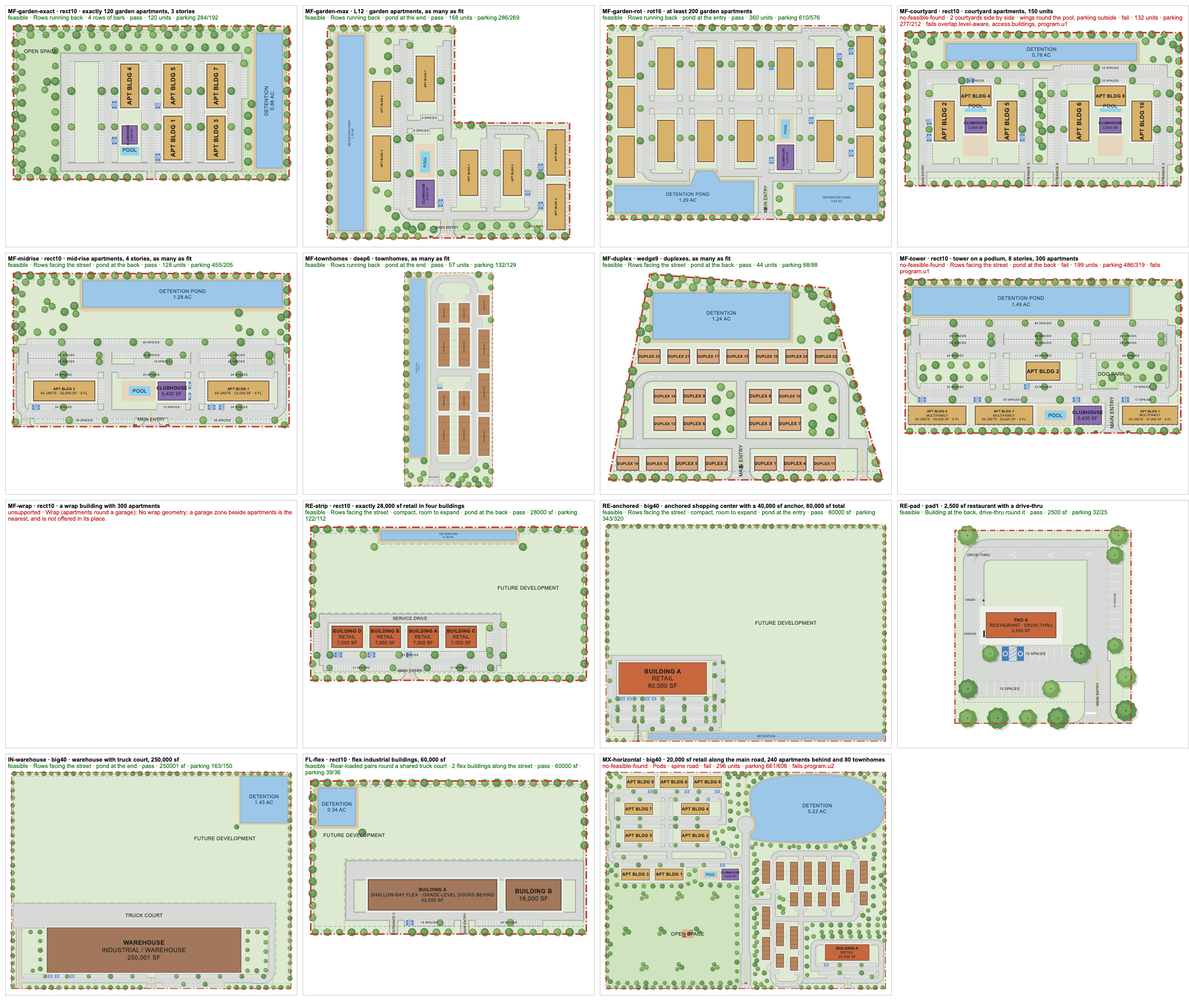
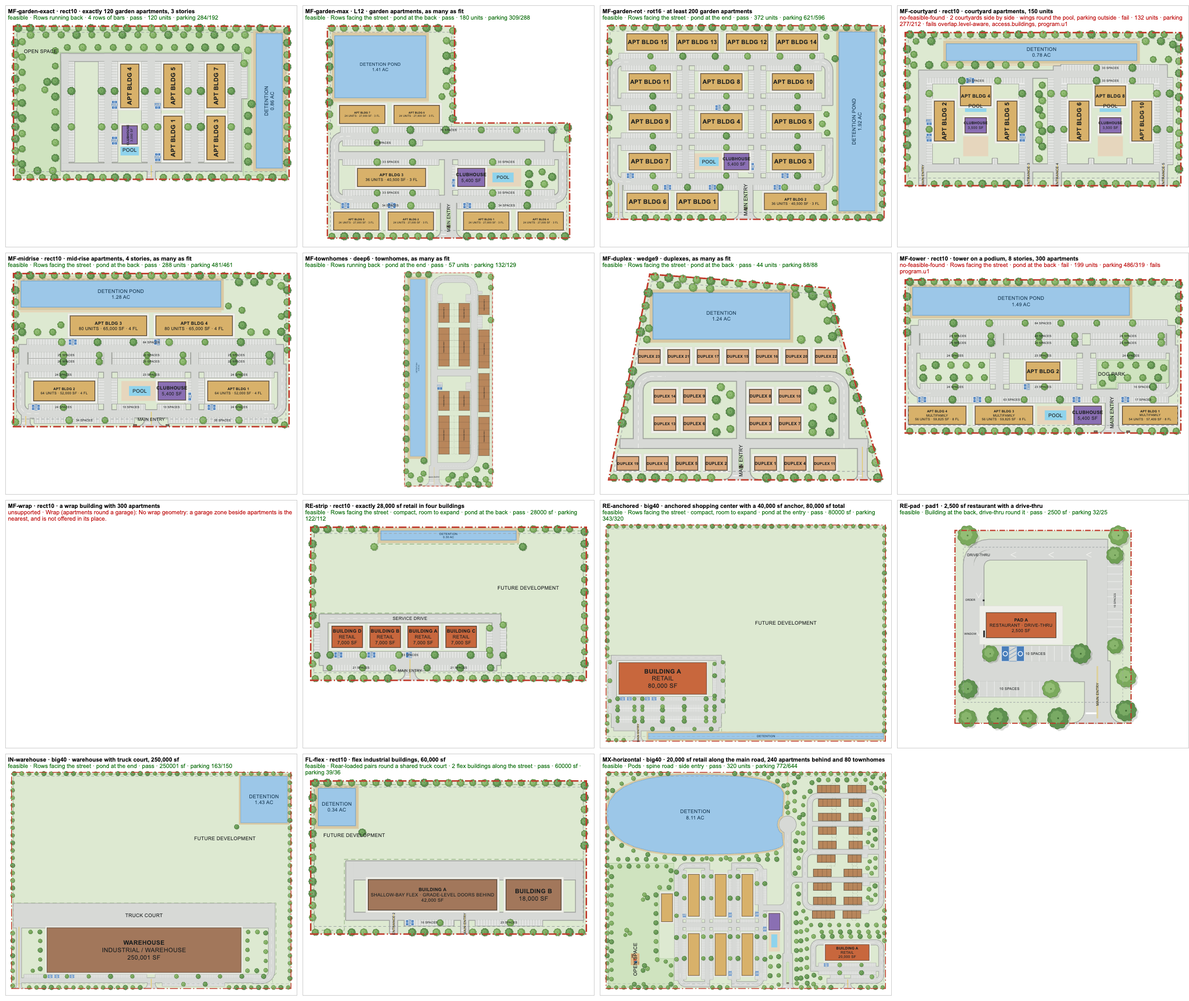
Build lays out through the run engine; studio buildings; no apartment stubs
- src/siteplan.js + src/sp-worker.js: Build, its re-solve and the AI's revised program call
  runPlan (lib/layoutrun.mjs) in the worker: a saved, seeded run with templates and the
  independent check on every option; falls back to the plain engine
- lib/sitelayout.mjs: params.minLen, the smallest whole apartment building; the generator
  draws fewer full-length bars instead of one-stair stubs (the Hockley plan's empty blocks)
- lib/layoutbrief.mjs: uses keep their zone and name; per-zone forms; templates for every
  apartment zone; same-use zones with no placement ordered front to back (stated)
- lib/bldgtemplates.mjs, lib/layoutcheck.mjs: templates and program checks per zone
- lib/siteplan.mjs: studio apartment buildings read from words as their own zone
- mf-garden-studio-3s template (estimate) from the reviewed garden stack
- Hockley (23737 FM 2920, 29 ac): 144 garden + 270 studio + 109 townhomes, all options pass
  (before: 348 apartments with ~4 ac empty, or 18 units from the words); Chrome worker and
  Node give identical geometry hashes. Benchmark 12/15 (was 11).

diff --git a/src/siteplan.js b/src/siteplan.js
@@ -31,6 +31,7 @@ import * as G from './lib/guardrails.mjs';
 import * as BR from './lib/planbrief.mjs';
 import * as LV from './lib/layoutcheck.mjs';
 import * as LB from './lib/layoutbrief.mjs';
+import { runPlan } from './lib/layoutrun.mjs';
 import * as STG from './lib/planstages.mjs';
 import * as PARC from './lib/siteparcels.mjs';
 import * as RF from './lib/sitefiles.mjs';
@@ -852,17 +853,24 @@ export function initSitePlan(ctx) {
   // kept with the plan's own working numbers (unapply); every other plan goes to the engine as it is
   function laid(fn, ...args) {
     if (fn === 'refit' && args[0]?.recipe?.parcels) args[1] = { ...(args[1] || {}), parcels: partsNow(P(), args[0]) }; // (laid out parcel by parcel: the parts again)
-    if (fn === 'options' && args[0]?.ring?.length >= 3 && !args[0].terrain) { const t = terrainNow(args[0]); if (t) args[0] = { ...args[0], terrain: t }; else terrainOf(args[0]); } // the pond goes on the low side (lib/sitelayout.mjs)
+    if ((fn === 'options' || fn === 'run') && args[0]?.ring?.length >= 3 && !args[0].terrain) { const t = terrainNow(args[0]); if (t) args[0] = { ...args[0], terrain: t }; else terrainOf(args[0]); } // the pond goes on the low side (lib/sitelayout.mjs)
     const g = fn === 'refit' ? G.forLayout(args[0], args[0]?.program, {}) : G.forLayout(args[0], args[1], args[2] || {});
     if (!g) return laid0(fn, ...args);
     const base = fn === 'refit' ? args[0] : { ...args[0], program: args[1] };
-    return laid0(fn, ...(fn === 'refit' ? [g.plan, args[1] || {}] : [g.plan, g.program, g.opts])).then(r => fn === 'refit' ? G.unapply(r, base) : (r || []).map(o => G.unapply(o, base)));
+    return laid0(fn, ...(fn === 'refit' ? [g.plan, args[1] || {}] : [g.plan, g.program, g.opts, ...args.slice(3)])).then(r => fn === 'refit' ? G.unapply(r, base) : fn === 'run' ? { ...r, options: (r?.options || []).map(o => G.unapply(o, base)) } : (r || []).map(o => G.unapply(o, base)));
   }
   function laid0(fn, ...args) {
     try { if (!worker) { worker = new Worker(new URL('./sp-worker.js', import.meta.url), { type: 'module' }); worker.onmessage = ({ data }) => { const w = wait.get(data.id); if (!w) return; wait.delete(data.id); data.ok ? w.ok(data.result) : w.no(new Error(data.error)); }; worker.onerror = e => { for (const w of wait.values()) w.no(new Error(e.message || 'layout worker failed')); wait.clear(); worker = null; }; } }
     catch (e) { worker = null; }
-    if (!worker) return new Promise((ok, no) => setTimeout(() => { try { ok(fn === 'refit' ? refit(...args) : fn === 'pods' ? relayPods(...args) : fn === 'net' ? netEdit(...args) : layoutOptions(...args)); } catch (e) { no(e); } }, 30));
+    if (!worker) return new Promise((ok, no) => setTimeout(() => { try { ok(fn === 'run' ? runPlan(...args) : fn === 'refit' ? refit(...args) : fn === 'pods' ? relayPods(...args) : fn === 'net' ? netEdit(...args) : layoutOptions(...args)); } catch (e) { no(e); } }, 30));
     const id = ++wseq; return new Promise((ok, no) => { wait.set(id, { ok, no }); worker.postMessage({ id, fn, args: JSON.parse(JSON.stringify(args)) }); });
+  }
+  // Build's layouts as runs (lib/layoutrun.mjs runPlan): the same engine inside a saved, replayable run (seeded, so the
+  // same request on the same site gives the same layouts), apartment buildings from the reviewed templates, each option
+  // with its independent check. The plain engine when the run can't be made.
+  async function laidRun(plan, prog, opts, ask) {
+    try { const r = await laid('run', plan, prog, opts, { ask }); if (r?.options?.length) return r.options; } catch (e) { console.warn('layout run', e); }
+    return laid('options', plan, prog, opts);
   }
   let lastKeep = null, keySig = '';
   function draw() {
@@ -2666,7 +2674,7 @@ export function initSitePlan(ctx) {
     const label = solveLabel, mark = o.force ? null : solveMark; solveLabel = ''; solveMark = null; ed.solveBar = false;
     const before = pl.elements.some(e => e.kind === 'building') ? GM(pl) : null, was = pl.variant ? { ...pl.variant } : null, hadAi = !!ed.variants?.some(v => v.ai);
     const run = startRun('resolve', ['Laying out new layouts with these settings'], o.src || '#spResolve'); if (!run) return;
-    let out = []; try { out = await laid('options', { ...pl, params: RUN.fillParams(pl.params, { ask: ed.runMeta?.ask || pl.lastRun?.ask || '' }) }, pl.program, { count: ed.variants?.length > 3 ? 12 : 3, deeper: true, ...koOpts(pl) }); } catch (e) { console.warn('layout', e); }
+    let out = []; try { out = await laidRun({ ...pl, params: RUN.fillParams(pl.params, { ask: ed.runMeta?.ask || pl.lastRun?.ask || '' }) }, pl.program, { count: ed.variants?.length > 3 ? 12 : 3, deeper: true, ...koOpts(pl) }, ed.runMeta?.ask || pl.lastRun?.ask || ''); } catch (e) { console.warn('layout', e); }
     if (!live(run) || PL() !== pl) return;
     const variants = named(out, { ...pl });
     if (!variants.some(v => v.elements.length)) { endRun(run); ctx.toast('Nothing fits with these settings.'); return; }
@@ -3485,7 +3493,7 @@ export function initSitePlan(ctx) {
     if (np.form) params0 = { ...(params0 || pl.params || {}), form: np.form }; // the shape the request names ("L-shaped"): the layout reads params.form
     runStep(run, 2 + o0, lay);
     const wb = BR.wordsBrief(ask); // pads asked for in words ("with 2 pad sites", "an outparcel"): the engine places them, at every level
-    let out = [], failed = false; try { out = await laid('options', { ...pl, setbacks, ...(params0 ? { params: params0 } : {}) }, prog, { ...L.layout, deeper: true, ...koOpts(pl), ...(wb ? { brief: wb } : {}), ...parcelOpts(p, pl, prog) }); /* (deeper: the same layouts again with a 6 and an 8 ft deep pond, each labelled with the depth it assumes) */ } catch (e) { console.warn('layout', e); failed = true; if (live(run)) ctx.toast('The layout failed: ' + e.message + '. Try a smaller request, or draw it by hand.'); }
+    let out = [], failed = false; try { out = await laidRun({ ...pl, setbacks, ...(params0 ? { params: params0 } : {}) }, prog, { ...L.layout, deeper: true, ...koOpts(pl), ...(wb ? { brief: wb } : {}), ...parcelOpts(p, pl, prog) }, ask); /* (deeper: the same layouts again with a 6 and an 8 ft deep pond, each labelled with the depth it assumes) */ } catch (e) { console.warn('layout', e); failed = true; if (live(run)) ctx.toast('The layout failed: ' + e.message + '. Try a smaller request, or draw it by hand.'); }
     if (!live(run) || PL() !== pl) return;
     const plan = { ...pl, setbacks, ...(params0 ? { params: params0 } : {}) };
     let variants = named(out, { ...plan, program: prog }, params0 ? { params: params0 } : {});
@@ -3535,7 +3543,7 @@ export function initSitePlan(ctx) {
         if (rv.revise && rv.program) {
           runStep(run, 4 + o0, (revised.length ? 'Revising again: ' : 'Revising: ') + (rv.why || 'a better program').replace(/\.$/, ''));
           const params2 = RUN.fillParams({ ...params1, ...(rv.params?.streets ? { streets: rv.params.streets } : {}), ...(rv.params?.form ? { form: rv.params.form } : {}) }, { ask }), prog2 = { ...rv.program, ...(rv.params?.storm ? { storm: rv.params.storm } : {}) }; // (its "fill" never holds land the words didn't ask to hold)
-          let out2 = []; try { out2 = await laid('options', { ...pl, setbacks, params: params2 }, prog2, { ...(L.revise || { count: 3, depth: 6, budgetMs: 6000 }), ...koOpts(pl), ...(wb ? { brief: wb } : {}) }); } catch (e) { console.warn('layout', e); }
+          let out2 = []; try { out2 = await laidRun({ ...pl, setbacks, params: params2 }, prog2, { ...(L.revise || { count: 3, depth: 6, budgetMs: 6000 }), ...koOpts(pl), ...(wb ? { brief: wb } : {}) }, ask); } catch (e) { console.warn('layout', e); }
           if (!live(run)) return;
           const v2 = named(out2, { ...plan, params: params2, program: prog2 }, { params: params2, revisedBy: rv.why || 'the AI review' }).filter(v => v.elements.length);
           if (v2.length) { add = v2.slice(0, 3); progR = prog2; params1 = params2; revised.push(first.why || 'a better program'); }

diff --git a/src/sw.js b/src/sw.js
@@ -3,7 +3,7 @@
 const VERSION = '__BUILD__', SHELL = 'fs-shell-' + VERSION, DATA = 'fs-data', LIBS = 'fs-libs';
 const FILES = ['./', 'index.html', 'app.css', 'workspace.css', 'app.js', 'workspace.js', 'assistant.js', 'live.js', 'team.js', 'timeline.js', 'views.js', 'market.js', 'saved.js', 'building.js', 'mobile.js', 'nav.js', 'settings.js', 'field.js', 'siteplan.js', 'sitefiles.js', 'teamlib.js', 'rulesheets.js', 'sp-worker.js',
   'mapsearch.js', 'nearby.js', 'sources.js', 'sitereports.js', 'planes.js', 'flightpath3d.js', 'planes3d.js', 'quicklayers.js', 'layerfilters.js', 'cardtabs.js', 'area.js', 'regrid.js', 'site.js', 'utilities.js', 'glance.js', 'crime.js', 'crimeus.js', 'fema.js', 'places.js', 'devlayers.js', 'env.js', 'owner.js', 'google.js', 'reportkit.js', 'markets.js', 'drivetime.js', 'traffic.js', 'airports.js', 'airreport.js', 'compare.js', 'kpis.js', 'export.js', 'metrics.js', 'charts.js', 'chatcards.js', 'mkcharts.js', 'motion.js', 'cursors.js', 'reports.js',
-  '__FEASIBILITY__', 'lib/filter.mjs', 'lib/siteplan.mjs', 'lib/sitecompose.mjs', 'lib/sitelayout.mjs', 'lib/sitefoodtruck.mjs', 'lib/sitefuel.mjs', 'lib/sitestem.mjs', 'lib/sitecommunity.mjs', 'lib/siteparking.mjs', 'lib/sitepad.mjs', 'lib/sitecorner.mjs', 'lib/sitepods.mjs', 'lib/streetnet.mjs', 'lib/rulesheet.mjs', 'lib/streetedit.mjs', 'lib/streetnames.mjs', 'lib/customtypes.mjs', 'lib/buildings.mjs', 'lib/siteedit.mjs', 'lib/planview.mjs', 'lib/planstages.mjs', 'lib/planruns.mjs', 'lib/planask.mjs', 'lib/planbrief.mjs', 'lib/sitefiles.mjs', 'lib/project.mjs', 'lib/render.mjs', 'lib/titleblock.mjs', 'lib/planset.mjs', 'lib/plandesign.mjs', 'lib/massing.mjs', 'lib/bimplan.mjs', 'lib/bim.mjs', 'lib/sheetkit.mjs', 'lib/terrain.mjs', 'lib/sheets/site.mjs', 'lib/sheets/arch.mjs', 'lib/sheets/eng.mjs', 'lib/sheets/fuel.mjs', 'lib/reports/fema.mjs', 'lib/reports/crime.mjs', 'lib/reports/crimeus.mjs', 'lib/reports/env.mjs', 'lib/reports/geojson.mjs', 'lib/reports/plain.mjs', 'lib/reports/courses.mjs', 'lib/aimodels.mjs', 'lib/aiprices.mjs', 'lib/planpick.mjs', 'lib/planmap.mjs', 'lib/sitetools.mjs', 'lib/stalls.mjs', 'lib/proforma.mjs', 'lib/guardrails.mjs', 'lib/sitesheet.mjs', 'lib/utilities.mjs', 'lib/taxonomy.mjs', 'lib/changes.mjs', 'lib/agent-tools.mjs', 'lib/rulebook.mjs', 'lib/assist-logic.mjs', 'lib/nasa.mjs', 'lib/height.mjs', 'lib/sectors.mjs', 'lib/nearby.mjs', 'lib/reports.mjs', 'lib/demographics.mjs', 'lib/marketcalc.mjs', 'lib/marketstats.mjs', 'lib/spending.mjs', 'lib/nibrs.mjs', 'lib/voice-state.mjs', 'lib/aircraft-shapes.mjs', 'lib/aircraft-meshes.mjs', 'lib/flightpath.mjs', 'lib/geomatch.mjs', 'lib/screen.mjs', 'lib/markets.mjs', 'lib/correlate.mjs', 'lib/footprint.mjs', 'lib/cardclick.mjs', 'lib/places.mjs', 'lib/env.mjs', 'lib/layeruse.mjs', 'lib/http.mjs', 'lib/urlstate.mjs', 'lib/maptiler.mjs', 'lib/vendor/polyclip.mjs', 'logo.png', 'icon-192.png', 'manifest.webmanifest', 'lib/sitetract.mjs', 'lib/sitecenter.mjs', 'lib/sitegen.mjs', 'lib/sitegencom.mjs', 'lib/siteparcels.mjs', 'lib/projectstore.mjs', 'lib/enginectx.mjs', 'lib/sha256.mjs', 'lib/layoutbrief.mjs', 'lib/layoutcheck.mjs', 'lib/layoutcaps.mjs', 'lib/bldgtemplates.mjs', 'lib/reftemplates.mjs'];
+  '__FEASIBILITY__', 'lib/filter.mjs', 'lib/siteplan.mjs', 'lib/sitecompose.mjs', 'lib/sitelayout.mjs', 'lib/sitefoodtruck.mjs', 'lib/sitefuel.mjs', 'lib/sitestem.mjs', 'lib/sitecommunity.mjs', 'lib/siteparking.mjs', 'lib/sitepad.mjs', 'lib/sitecorner.mjs', 'lib/sitepods.mjs', 'lib/streetnet.mjs', 'lib/rulesheet.mjs', 'lib/streetedit.mjs', 'lib/streetnames.mjs', 'lib/customtypes.mjs', 'lib/buildings.mjs', 'lib/siteedit.mjs', 'lib/planview.mjs', 'lib/planstages.mjs', 'lib/planruns.mjs', 'lib/planask.mjs', 'lib/planbrief.mjs', 'lib/sitefiles.mjs', 'lib/project.mjs', 'lib/render.mjs', 'lib/titleblock.mjs', 'lib/planset.mjs', 'lib/plandesign.mjs', 'lib/massing.mjs', 'lib/bimplan.mjs', 'lib/bim.mjs', 'lib/sheetkit.mjs', 'lib/terrain.mjs', 'lib/sheets/site.mjs', 'lib/sheets/arch.mjs', 'lib/sheets/eng.mjs', 'lib/sheets/fuel.mjs', 'lib/reports/fema.mjs', 'lib/reports/crime.mjs', 'lib/reports/crimeus.mjs', 'lib/reports/env.mjs', 'lib/reports/geojson.mjs', 'lib/reports/plain.mjs', 'lib/reports/courses.mjs', 'lib/aimodels.mjs', 'lib/aiprices.mjs', 'lib/planpick.mjs', 'lib/planmap.mjs', 'lib/sitetools.mjs', 'lib/stalls.mjs', 'lib/proforma.mjs', 'lib/guardrails.mjs', 'lib/sitesheet.mjs', 'lib/utilities.mjs', 'lib/taxonomy.mjs', 'lib/changes.mjs', 'lib/agent-tools.mjs', 'lib/rulebook.mjs', 'lib/assist-logic.mjs', 'lib/nasa.mjs', 'lib/height.mjs', 'lib/sectors.mjs', 'lib/nearby.mjs', 'lib/reports.mjs', 'lib/demographics.mjs', 'lib/marketcalc.mjs', 'lib/marketstats.mjs', 'lib/spending.mjs', 'lib/nibrs.mjs', 'lib/voice-state.mjs', 'lib/aircraft-shapes.mjs', 'lib/aircraft-meshes.mjs', 'lib/flightpath.mjs', 'lib/geomatch.mjs', 'lib/screen.mjs', 'lib/markets.mjs', 'lib/correlate.mjs', 'lib/footprint.mjs', 'lib/cardclick.mjs', 'lib/places.mjs', 'lib/env.mjs', 'lib/layeruse.mjs', 'lib/http.mjs', 'lib/urlstate.mjs', 'lib/maptiler.mjs', 'lib/vendor/polyclip.mjs', 'logo.png', 'icon-192.png', 'manifest.webmanifest', 'lib/sitetract.mjs', 'lib/sitecenter.mjs', 'lib/sitegen.mjs', 'lib/sitegencom.mjs', 'lib/siteparcels.mjs', 'lib/projectstore.mjs', 'lib/enginectx.mjs', 'lib/sha256.mjs', 'lib/layoutbrief.mjs', 'lib/layoutcheck.mjs', 'lib/layoutcaps.mjs', 'lib/bldgtemplates.mjs', 'lib/reftemplates.mjs', 'lib/layoutrun.mjs'];
 const LIB_HOSTS = ['cdn.jsdelivr.net', 'cdnjs.cloudflare.com', 'fonts.googleapis.com', 'fonts.gstatic.com'];
 
 self.addEventListener('install', e => { e.waitUntil(caches.open(SHELL).then(c => Promise.all(FILES.map(f => c.add(f).catch(() => {})))).then(() => self.skipWaiting())); });

diff --git a/src/sp-worker.js b/src/sp-worker.js
@@ -1,7 +1,9 @@
 // Site plan layouts off the page's main thread: a 300-acre plan can take half a minute to lay out, and the map has to
-// keep moving meanwhile. Messages: { id, fn: 'options' | 'refit' | 'pods' | 'net', args } -> { id, ok, result | error }.
+// keep moving meanwhile. Messages: { id, fn: 'options' | 'run' | 'refit' | 'pods' | 'net', args } -> { id, ok, result | error }.
+// 'run': Build's layouts as saved, replayable runs with their independent check (lib/layoutrun.mjs runPlan).
 import { layoutOptions, refit, relayPods, netEdit } from './lib/sitelayout.mjs';
+import { runPlan } from './lib/layoutrun.mjs';
 self.onmessage = ({ data: { id, fn, args } }) => {
-  try { self.postMessage({ id, ok: true, result: fn === 'refit' ? refit(...args) : fn === 'pods' ? relayPods(...args) : fn === 'net' ? netEdit(...args) : layoutOptions(...args) }); }
+  try { self.postMessage({ id, ok: true, result: fn === 'run' ? runPlan(...args) : fn === 'refit' ? refit(...args) : fn === 'pods' ? relayPods(...args) : fn === 'net' ? netEdit(...args) : layoutOptions(...args) }); }
   catch (e) { self.postMessage({ id, ok: false, error: e.message || String(e) }); }
 };

diff --git a/docs/LAYOUT-ENGINE.md b/docs/LAYOUT-ENGINE.md
@@ -99,6 +99,7 @@ From 15 reviewed projects (12 families) in the reference library; see `docs/REFE
 | mf-garden-breezeway-3s | breezeway stack 75 × 60 ft, 4 units a floor, ≥ 2 stacks (the 24-unit, 150 ft bar) | P37, P08, P06 | multiple projects; depth 60 ft is the midpoint of the bar cases |
 | mf-midrise-corridor-4s | corridor bay 50 × 65 ft, 4 units a floor, ≥ 4 bays | P28, P11 (one family) | multiple projects, one family |
 | mf-midrise-corridor-5s | same bay at 5 floors | extrapolated | estimate |
+| mf-garden-studio-3s | the garden stack with 6 studio / 1-bed homes a floor (~750 gsf a home) | extrapolated from the garden stack | estimate (no reviewed studio building) |
 
 A bar up to 5% short of whole modules keeps its drawn length and counts them (the reviewed bars span 146–154 ft); bars
 are never stretched. Holdout templates (Sierra Vista mid-rise, Lake Shore townhomes, Anderson podium) are for evaluation.
@@ -115,14 +116,18 @@ runs. Table: `docs/bench/layout-bench-v2-before-after.md`; drawings: `docs/bench
   garden apartments).
 - Replay identical: 15 of 15; `test/layoutrun.mjs` repeats three representative briefs 20 times each, identical.
 - Still failing, honestly: courtyard (corner overlaps, a wing far from a drive, 132 of 150), tower on podium (199 of
-  300), mixed use (216 of 240 apartments fit).
+  300).
+- After the smallest-building fix (Nov 3, later): **12 of 15** pass; mid-rise 128 → 288 units (no more over-parking),
+  mixed use now passes (320 units), garden as many as fit 168 → 180. Latest table: `docs/bench/layout-bench-v2.md`
+  (no before column); the before/after table above stays as the record of the first change.
 
 Separate measures, never one "accuracy" number:
 1. **Extraction**: 50 of 63 reconciliation checks agree in the reviewed fixtures (12 discrepancies recorded, 1 unknown);
    scaled footprints ±3 ft to ±10%.
 2. **Feasibility**: hard-check failures and unknowns per option (benchmark table).
 3. **Design quality**: not yet scored. Observed: trimming to an exact count leaves an empty parking bay (exact-120 plan,
-   284 spaces for 192 needed); the mid-rise plan keeps two 64-unit bars and over-parks; anchored center drawn as one box.
+   284 spaces for 192 needed); anchored center drawn as one box; some options differ only by mirroring. (The mid-rise
+   over-parking was fixed by the smallest-building rule.)
 4. **Reproducibility**: identical hashes on replay and 20 repeats; runtime 0.1–6 s a run on the benchmark.
 
 ## 7. Edits (`lib/layoutedit.mjs`; MCP `layout_edit`; `api/layoutrun.js` mode edit)
@@ -143,14 +148,19 @@ selection; placement edits only reorder zones of a mixed plan.
 - API: `api/layoutrun.js` (run, replay, edit, undo, caps). MCP: `layout_run`, `layout_replay`, `layout_edit`,
   `layout_capabilities`.
 - Browser build and service worker include the new modules (`build.mjs`, `src/sw.js`).
-- Not yet: the Build flow in the editor still calls the engine live (not through `runBrief`), so its options aren't run
-  records; the AI program step doesn't emit quantity modes; exports and the pro forma read the plan as before (they agree
-  with the validator's quantities only through the shared drawing).
+- **Build** (the editor's main build, its re-solve after a settings change, and the AI's revised program) runs through
+  `runPlan` (lib/layoutrun.mjs) in the page's worker (`src/sp-worker.js`, fn `run`): the editor's plan, program and search
+  settings become a brief (what a size means follows the Leftover land setting: fill or phase = at least, hold = exactly),
+  and each option comes back in the engine's shape with `check` (the validator's status) and `run` (input hash, seed,
+  versions and the brief to replay). Falls back to the plain engine when a run can't be made. Checked in Chrome through
+  the real worker: the Hockley request gives the same geometry hashes as Node.
+- Not yet: "More layouts" and scenario layouts still call the engine directly; the AI program step doesn't emit quantity
+  modes; exports and the pro forma read the plan as before.
 
 ## 9. Next tasks (in order)
 
-1. Route the editor's Build and the MCP `site_plan` tool through `runBrief` (save the run record on the option), and add
-   the quantity-meaning choice to Build.
+1. Done for Build (Nov 3). Still: "More layouts", scenarios and the MCP `site_plan` tool through `runPlan`; the
+   quantity-meaning choice in Build; options that differ only by mirroring (the Hockley run's first two).
 2. After trimming to an exact count, re-fit the parking (refit with the kept buildings pinned) so no empty bay is left.
 3. Mid-rise: let shorter bars take fewer bays (min 3) or join bars; score over-parking as land waste.
 4. Courtyard: a continuous courtyard building form (no corner overlaps), then mark it validated if the benchmark passes.

diff --git a/CHANGELOG.md b/CHANGELOG.md
@@ -5,6 +5,13 @@ Nightly "Refresh data" commits from the data workflow are left out (they only up
 
 ## 2026-11-03
 
+### 5:26 PM CT: Build lays out through the new engine; studio buildings; no more empty apartment blocks (this push)
+- **Build now runs the reproducible engine.** The same request on the same site gives the same layouts; apartment buildings come from the reviewed building templates; each option carries its independent check and the saved run behind it. The re-solve after a settings change and the AI's revised program go the same way. If a run can't be made, Build falls back to the engine as before.
+- **"Garden apartments, townhomes and studio apartment buildings, as many as fits" on 23737 FM 2920, Hockley (29 ac):** before, 348 apartments with about 4 acres of the apartment block left empty and the studios drawn as the same buildings; the words alone gave 18 units. Now 144 garden apartments, 270 studio apartments and 109 townhomes, every option passing the independent check.
+- **Studio apartment buildings** are their own zone and building (six studio / one-bed homes a floor in the reviewed breezeway stack; an estimate, labelled so). "Studios" for a yoga or recording studio are left alone.
+- **No buildings too short to keep:** the layout no longer draws one-stair apartment stubs that were then removed (which left the empty parking blocks); it draws fewer, full-length buildings.
+- **Two apartment zones with no placement** (garden and studio) are laid out front to back in the order asked, and the run says so; before, the layout fell back to a simple one.
+
 ### 5:04 PM CT: Builds, renderings and plan sets run on the server (1a1cc0c, this push)
 - **Build with AI keeps going when you leave.** It now runs on the server: refresh, close the tab or open something else and it carries on. Come back to the option and it's still running, or its pick is on the map and its layouts are in the list. Anyone on the team who opens the option sees the same, and **Cancel** stops it for everyone.
 - **Renderings keep going too.** The page takes the massing pictures (a few seconds each), then the server paints them. Each finished picture is added to the option for the whole team, and the Renderings tab shows the ones still being painted after a refresh.

diff --git a/docs/DECISIONS.md b/docs/DECISIONS.md
@@ -171,3 +171,12 @@ One line per decision: what was chosen and why. Newest at the bottom of each pha
 - **No form is marked "validated" yet**: the benchmark is synthetic; courtyard and anchored center were downgraded to partial after the benchmark drawings showed corner overlaps and a single-box center.
 - **Proven infeasible only from a bound**: the footprint at the most floors a form allows exceeds the land inside the setbacks. Anything else that finds nothing is "no feasible layout found".
 - **Two failing tests were left failing** (test/layoutasks.mjs townhome commons; test/streetnet.mjs street bend 30 vs 60 ft): both fail identically on the base commit 50c0f1b. The layoutasks pads failure was fixed (pads only for shop, restaurant, office, medical and other uses).
+
+## Build through the run layer; studio buildings (2026-11-03)
+
+- **Build calls `runPlan` in the worker and falls back to the plain engine** if the run fails, so a run-layer problem can never leave the editor with nothing.
+- **Sizes in Build follow the Leftover land setting** (fill / phase = at least, hold = exactly), not the brief's "a bare number is exact" default, so the editor's existing behaviour and setting keep their meaning.
+- **The generator takes a smallest-building length (`params.minLen`)**: with templates it is two stacks (150 ft), so it draws fewer, full-length bars instead of one-stair stubs that the templates then removed (the empty parking blocks on the Hockley plan). Unset, the engine behaves as before.
+- **Two zones of the same use with no placement get a front-to-back order** in the run layer (stated in the run's notes). The band engine can't lay out two apartment zones (18 units on 29 ac); fixing the band engine itself is left for later.
+- **Studio buildings are an estimate**: the reviewed garden stack with six homes a floor instead of four. No studio-only building was reviewed in the library.
+- **A word "studio" makes studio homes only with apartment wording or the plural**, never for a yoga, dance, recording, art, fitness, photo or tattoo studio.

diff --git a/docs/bench/layout-bench-v2.md b/docs/bench/layout-bench-v2.md
@@ -1,0 +1,17 @@
+| Case | Family | Outcome | Top option | Fails | Unknown | Replay | Before (same validator) |
+|---|---|---|---|---|---|---|---|
+| MF-garden-exact | multifamily | feasible | pass · 120 units · parking 284/192 | — | 4 | identical | n/a |
+| MF-garden-max | multifamily | feasible | pass · 180 units · parking 309/288 | — | 4 | identical | n/a |
+| MF-garden-rot | multifamily | feasible | pass · 372 units · parking 621/596 | — | 4 | identical | n/a |
+| MF-courtyard | multifamily | no-feasible-found | fail · 132 units · parking 277/212 | overlap.level-aware, access.buildings, program.u1 | 4 | identical | n/a |
+| MF-midrise | multifamily | feasible | pass · 288 units · parking 481/461 | — | 4 | identical | n/a |
+| MF-townhomes | multifamily | feasible | pass · 57 units · parking 132/129 | — | 4 | identical | n/a |
+| MF-duplex | multifamily | feasible | pass · 44 units · parking 88/88 | — | 4 | identical | n/a |
+| MF-tower | multifamily | no-feasible-found | fail · 199 units · parking 486/319 | program.u1 | 4 | identical | n/a |
+| MF-wrap | multifamily | unsupported | Wrap (apartments round a garage): No wrap geometry: a garage zone besi | — | — | identical | n/a |
+| RE-strip | retail | feasible | pass · 28,000 sf · parking 122/112 | — | 4 | identical | n/a |
+| RE-anchored | retail | feasible | pass · 80,000 sf · parking 343/320 | — | 4 | identical | n/a |
+| RE-pad | retail | feasible | pass · 2,500 sf · parking 32/25 | — | 4 | identical | n/a |
+| IN-warehouse | industrial | feasible | pass · 250,001 sf · parking 163/150 | — | 4 | identical | n/a |
+| FL-flex | flex | feasible | pass · 60,000 sf · parking 39/36 | — | 4 | identical | n/a |
+| MX-horizontal | mixed_use | feasible | pass · 320 units · parking 772/644 | — | 4 | identical | n/a |

diff --git a/PRODUCTDOC.md b/PRODUCTDOC.md
@@ -1155,6 +1155,7 @@ The **?** button at the top right (Data & help; on phones, More → Data sources
 
 ## Recently added
 
+- **Build uses the new layout engine:** the same request on the same site gives the same layouts; apartment buildings follow the reviewed building types; studio apartment buildings are their own product ("garden apartments, townhomes and studio apartment buildings" gives all three); and every option comes with its independent check. On the 29-acre Hockley site the request now fills the land: 144 garden apartments, 270 studios and 109 townhomes, with no empty parking blocks.
 - **Builds, renderings and plan sets keep going when you leave (Nov 3):** they run on the server, so a refresh, a closed tab or another page no longer stops them; everyone on the team sees them running and gets what they made. A link to a plan or project now opens on a computer that hasn't loaded the team's projects yet.
 - **Projects live in the team's cloud (Nov 3):** big projects are no longer left off the team's copy, teammates' changes show up within 30 seconds, the save mark says plainly whether a change has reached the cloud, and Safari no longer refuses to save big projects.
 - **Better massing for renderings (Nov 3):** the massing is always taken on flat ground, so with 3D Terrain on the site is no longer pulled toward the camera and cut off; the Building close-up view has been taken out.
